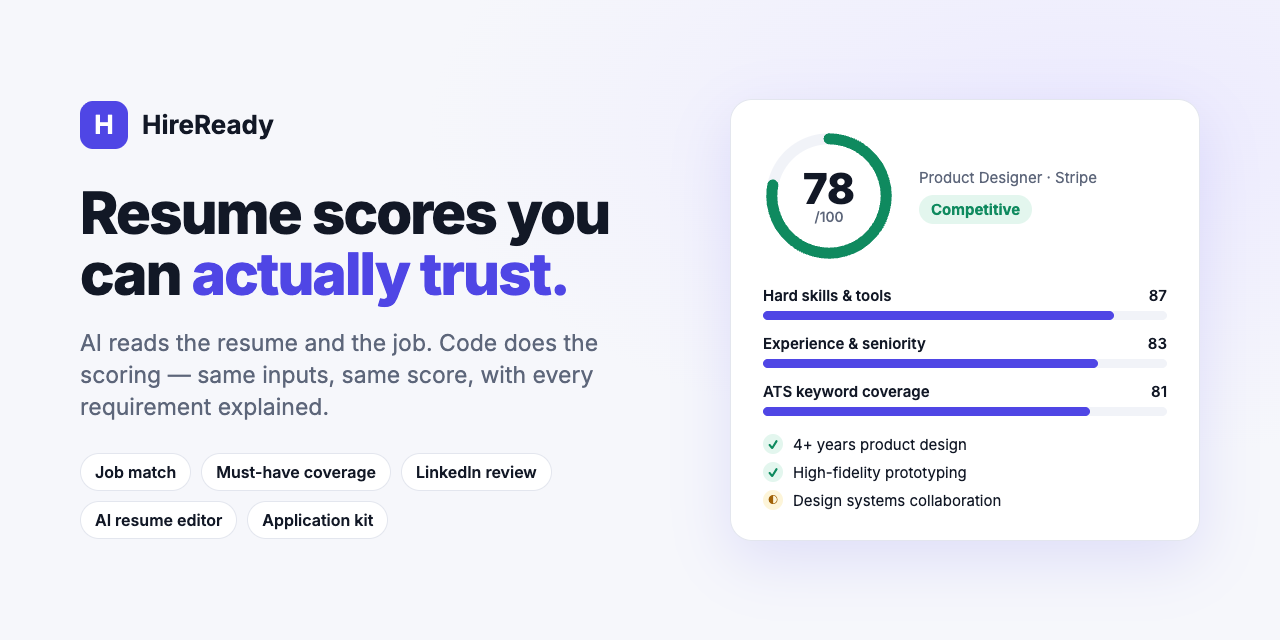
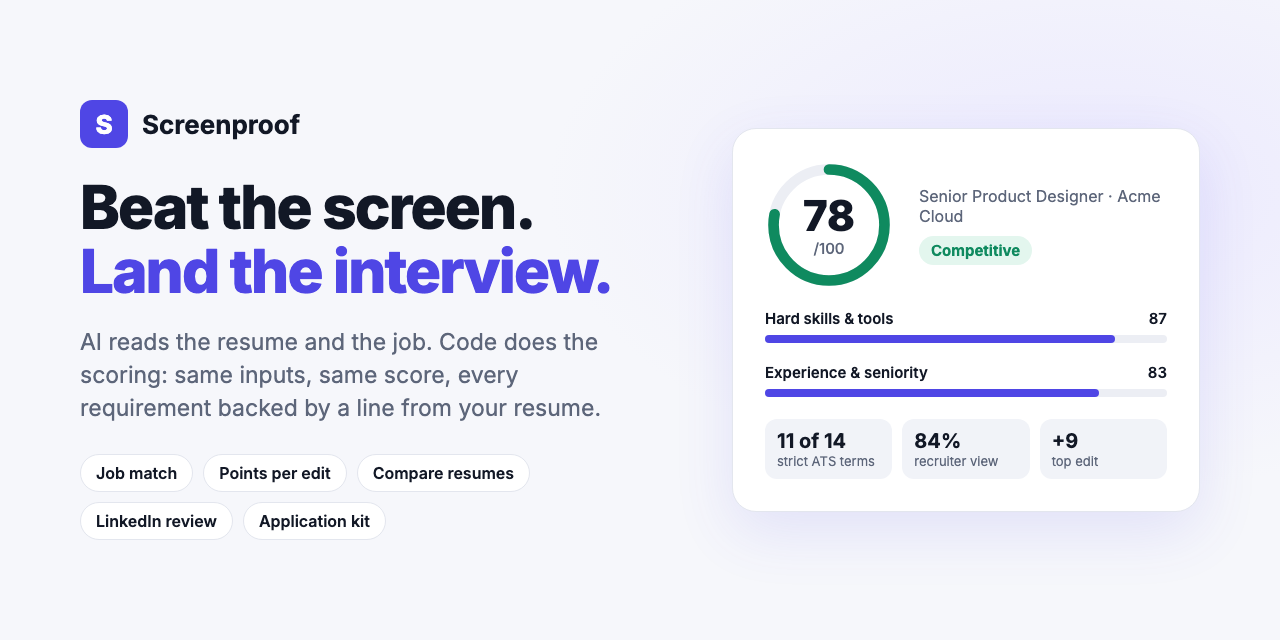
Rename the product to Screenproof
HireReady is already taken. User-facing name, logo letter, splash, page title, messages, README,
monetization doc and the social preview image (redrawn with the new headline) now say Screenproof.
Internal identifiers stay (HIREREADY_* env vars, hireready_* Supabase tables, repo URL) so the
deploy and data keep working.

diff --git a/static/index.html b/static/index.html
@@ -3,7 +3,7 @@
 <head>
   <meta charset="utf-8">
   <meta name="viewport" content="width=device-width, initial-scale=1">
-  <title>HireReady</title>
+  <title>Screenproof</title>
   <link rel="preconnect" href="https://fonts.googleapis.com">
   <link href="https://fonts.googleapis.com/css2?family=Inter:wght@400;500;600;700&display=swap" rel="stylesheet">
   <link rel="stylesheet" href="/static/style.css">
@@ -20,14 +20,14 @@
         <rect class="sp-scan" x="42" y="40" width="34" height="3" rx="1.5"/>
         <path class="sp-check" d="M64 76l6 6 13-15"/>
       </svg>
-      <div class="splash-word">HireReady</div>
-      <div class="splash-tag">Getting you hire-ready…</div>
+      <div class="splash-word">Screenproof</div>
+      <div class="splash-tag">Proofing you for the screen…</div>
     </div>
   </div>
 
   <header class="top">
     <div class="wrap top-inner">
-      <div class="brand"><span class="logo">H</span>HireReady</div>
+      <div class="brand"><span class="logo">S</span>Screenproof</div>
       <span id="demo-pill" class="demo-pill" hidden>Demo mode — sample results, no API key set</span>
       <div class="admin-bar">
         <span id="admin-pill" class="admin-pill" hidden>Admin · full access</span>
@@ -55,7 +55,7 @@
   <main class="wrap">
     <section class="hero">
       <h1 id="headline" aria-label="Beat the screen. Land the interview.">Beat the screen. Land the interview.</h1>
-      <div class="bulletin" id="bulletin" role="region" aria-label="What HireReady does">
+      <div class="bulletin" id="bulletin" role="region" aria-label="What Screenproof does">
         <span class="bulletin-tag"><span class="live-dot" aria-hidden="true"></span>Bulletin</span>
         <ul class="bulletin-items" aria-live="off">
           <li class="active">Upload your resume for an <strong>instant score</strong> and the exact edits to make.</li>
@@ -209,7 +209,7 @@
       </div>
       <div class="demo-banner" id="demo-banner" hidden>
         <strong>Sample result — this isn't your resume.</strong>
-        HireReady isn't connected to an AI model right now, so it's showing a built-in example. Your upload wasn't analysed.
+        Screenproof isn't connected to an AI model right now, so it's showing a built-in example. Your upload wasn't analysed.
       </div>
       <div class="card score-card">
         <div class="ring-wrap">

diff --git a/static/app.js b/static/app.js
@@ -3,7 +3,7 @@ const $$ = (s) => document.querySelectorAll(s);
 const state = { resumeText: "", job: null, analysis: null, kit: null, chat: { messages: [], md: "" }, preview: false, locked: null, contact: "rnwedesign@gmail.com" };
 
 const LOCK_SVG = '<svg viewBox="0 0 16 16" fill="none" stroke="currentColor" stroke-width="1.8" stroke-linecap="round"><rect x="3" y="7" width="10" height="7" rx="1.5"/><path d="M5.5 7V5a2.5 2.5 0 0 1 5 0v2"/></svg>';
-const mailto = () => `mailto:${state.contact}?subject=${encodeURIComponent("HireReady — full access & pricing")}&body=${encodeURIComponent("Hi,\n\nI tried the HireReady preview and I'd like the full version. Could you share pricing?\n\nThanks")}`;
+const mailto = () => `mailto:${state.contact}?subject=${encodeURIComponent("Screenproof — full access & pricing")}&body=${encodeURIComponent("Hi,\n\nI tried the Screenproof preview and I'd like the full version. Could you share pricing?\n\nThanks")}`;
 const plural = (n, word) => `${n} ${word}${n === 1 ? "" : "s"}`;
 const lockBox = (title, sub, tall = false) => `
   <div class="locked ${tall ? "tall" : ""}">

diff --git a/app/ai.py b/app/ai.py
@@ -371,7 +371,7 @@ async def _gemini_parse(content: str, schema, effort: str, models: list[str] | N
             if resp.status_code in (401, 403):
                 raise AIError("The Gemini API key is invalid. Check GEMINI_API_KEY.")
             if resp.status_code == 429:
-                raise AIError("HireReady is busy right now. Try again in a minute.")
+                raise AIError("Screenproof is busy right now. Try again in a minute.")
             if resp.status_code != 200:
                 raise AIError(f"Gemini is busy right now ({resp.status_code}). Try again in a minute.")
             data = resp.json()
@@ -571,7 +571,7 @@ async def profile_from_pdf_text(text: str) -> LinkedInProfile:
     if cached:
         return cached
     if demo_mode():
-        raise AIError("Reading a LinkedIn PDF needs an AI model, and HireReady isn't connected to one right now.")
+        raise AIError("Reading a LinkedIn PDF needs an AI model, and Screenproof isn't connected to one right now.")
     pdf = await _parse(f"<linkedin_pdf>\n{text}\n</linkedin_pdf>\n\n{PROFILE_PDF_INSTRUCTIONS}", ProfileFromPdf, effort="low")
     slug = re.search(r"linkedin\.com/in/([^/\s?#]+)", pdf.profile_url or text)
     profile = LinkedInProfile(
@@ -593,7 +593,7 @@ async def analyze_profile(profile: LinkedInProfile, target_role: str) -> Analysi
     expected = [] if demo_mode() else await role_keywords(role, seniority)
     card = scoring.compute_profile(profile, role, expected)
     if demo_mode():
-        raise AIError("Profile reviews need an AI model, and HireReady isn't connected to one right now.")
+        raise AIError("Profile reviews need an AI model, and Screenproof isn't connected to one right now.")
     brief = profile.model_dump(exclude={"source"})
     content = (
         f"<target_role>{role}</target_role>\n\n<linkedin_profile>\n{json.dumps(brief, indent=1)}\n</linkedin_profile>\n\n"

diff --git a/app/main.py b/app/main.py
@@ -22,7 +22,7 @@ from .parsing import JobFetchError, extract_resume, extract_resume_text, fetch_j
 STATIC = Path(__file__).resolve().parent.parent / "static"
 MAX_UPLOAD = 5 * 1024 * 1024
 
-app = FastAPI(title="HireReady")
+app = FastAPI(title="Screenproof")
 
 # Public deploys: require a shared access code and cap paid work (scrapes + Claude calls) per visitor per day.
 ACCESS_CODE = os.getenv("HIREREADY_ACCESS_CODE", "")

diff --git a/app/demo.py b/app/demo.py
@@ -187,4 +187,4 @@ DEMO_KIT = {
     ],
 }
 
-DEMO_CHAT_REPLY = "Resume editing needs an AI model, and HireReady isn't connected to one right now — so this is a sample reply and your resume wasn't changed."
+DEMO_CHAT_REPLY = "Resume editing needs an AI model, and Screenproof isn't connected to one right now — so this is a sample reply and your resume wasn't changed."

diff --git a/app/pdf.py b/app/pdf.py
@@ -1,4 +1,4 @@
-"""Render HireReady's resume Markdown (# name, header lines, ## sections, ### roles, - bullets, **bold**) to a one-column PDF."""
+"""Render Screenproof's resume Markdown (# name, header lines, ## sections, ### roles, - bullets, **bold**) to a one-column PDF."""
 
 import re
 from pathlib import Path

diff --git a/README.md b/README.md
@@ -1,4 +1,4 @@
-# HireReady
+# Screenproof
 
 [![tests](https://github.com/SalmanAhsan97/hireready/actions/workflows/tests.yml/badge.svg)](https://github.com/SalmanAhsan97/hireready/actions/workflows/tests.yml)
 [![License: MIT](https://img.shields.io/badge/license-MIT-blue.svg)](LICENSE)
@@ -6,13 +6,13 @@
 ![FastAPI](https://img.shields.io/badge/FastAPI-009688?logo=fastapi&logoColor=white)
 [![Live demo](https://img.shields.io/badge/demo-live-4f46e5)](https://web-production-7af8e.up.railway.app)
 
-![HireReady — resume scores you can actually trust](docs/social-preview.png)
+![Screenproof — beat the screen, land the interview](docs/social-preview.png)
 
 **Score your resume against a real job, see exactly which requirements you meet, and fix the gaps — with scores that don't change every time you click.**
 
 **Live demo:** [web-production-7af8e.up.railway.app](https://web-production-7af8e.up.railway.app) (free preview, no sign-up)
 
-HireReady reads a resume (PDF, DOCX or text), optionally pulls a LinkedIn job posting, and returns a 0–100 match score, a requirement-by-requirement check, ranked edits, an AI resume editor and a ready-to-send application kit. It can also review a LinkedIn profile against the title you're targeting.
+Screenproof reads a resume (PDF, DOCX or text), optionally pulls a LinkedIn job posting, and returns a 0–100 match score, a requirement-by-requirement check, ranked edits, an AI resume editor and a ready-to-send application kit. It can also review a LinkedIn profile against the title you're targeting.
 
 ## Screenshots
 
@@ -33,7 +33,7 @@ HireReady reads a resume (PDF, DOCX or text), optionally pulls a LinkedIn job po
 
 ## Why it's worth using
 
-Job seekers usually get one of two things: a vague "78% match" that changes every time they click, or generic advice that ignores the job in front of them. HireReady is built to answer the questions that decide whether an application gets read:
+Job seekers usually get one of two things: a vague "78% match" that changes every time they click, or generic advice that ignores the job in front of them. Screenproof is built to answer the questions that decide whether an application gets read:
 
 - **Will I pass the screen for *this* job?** Every requirement in the posting is checked, with the line from your resume that proves it, or marked missing.
 - **What exactly should I change?** Ranked, ready-to-paste edits, the keywords an ATS will search for word-for-word, and a resume editor that won't invent facts.
@@ -52,7 +52,7 @@ Job seekers usually get one of two things: a vague "78% match" that changes ever
 
 ## The interesting part: deterministic scoring
 
-Most AI resume tools ask a model for a score, so the same resume gets a different number on every run. HireReady splits the work:
+Most AI resume tools ask a model for a score, so the same resume gets a different number on every run. Screenproof splits the work:
 
 1. **The model extracts facts, once.** It lists the job's requirements (one skill per item, must-have vs nice-to-have, years, education) and quotes the resume line that supports each one. Extractions are cached by content hash, so the same inputs reuse the same facts.
 2. **Code computes the score.** Python verifies every quote actually appears in the resume, matches keywords literally (with aliases and word-proximity, like an ATS), compares degree levels and years, and applies fixed weights. Same facts → same score, every time.

diff --git a/docs/monetization.md b/docs/monetization.md
@@ -1,6 +1,6 @@
-# HireReady: plans and monetization
+# Screenproof: plans and monetization
 
-HireReady is a web app for job seekers. The free tier earns trust with an honest score, and the paid tier pays for the expensive parts: a premium model for writing, paid scrapers for complete data, and deeper features.
+Screenproof is a web app for job seekers. The free tier earns trust with an honest score, and the paid tier pays for the expensive parts: a premium model for writing, paid scrapers for complete data, and deeper features.
 
 ## Principles
 
@@ -30,7 +30,7 @@ Limits are environment variables (`HIREREADY_PREVIEW_LIMIT`, `HIREREADY_DAILY_LI
 
 ## Resume comparison (Pro)
 
-Upload 2–4 versions of a resume (or candidates' resumes) and one job link or description. HireReady:
+Upload 2–4 versions of a resume (or candidates' resumes) and one job link or description. Screenproof:
 
 - extracts the job's requirements **once** and checks every resume against that same list, so the scores compare fairly;
 - scores each resume with the normal deterministic engine;
